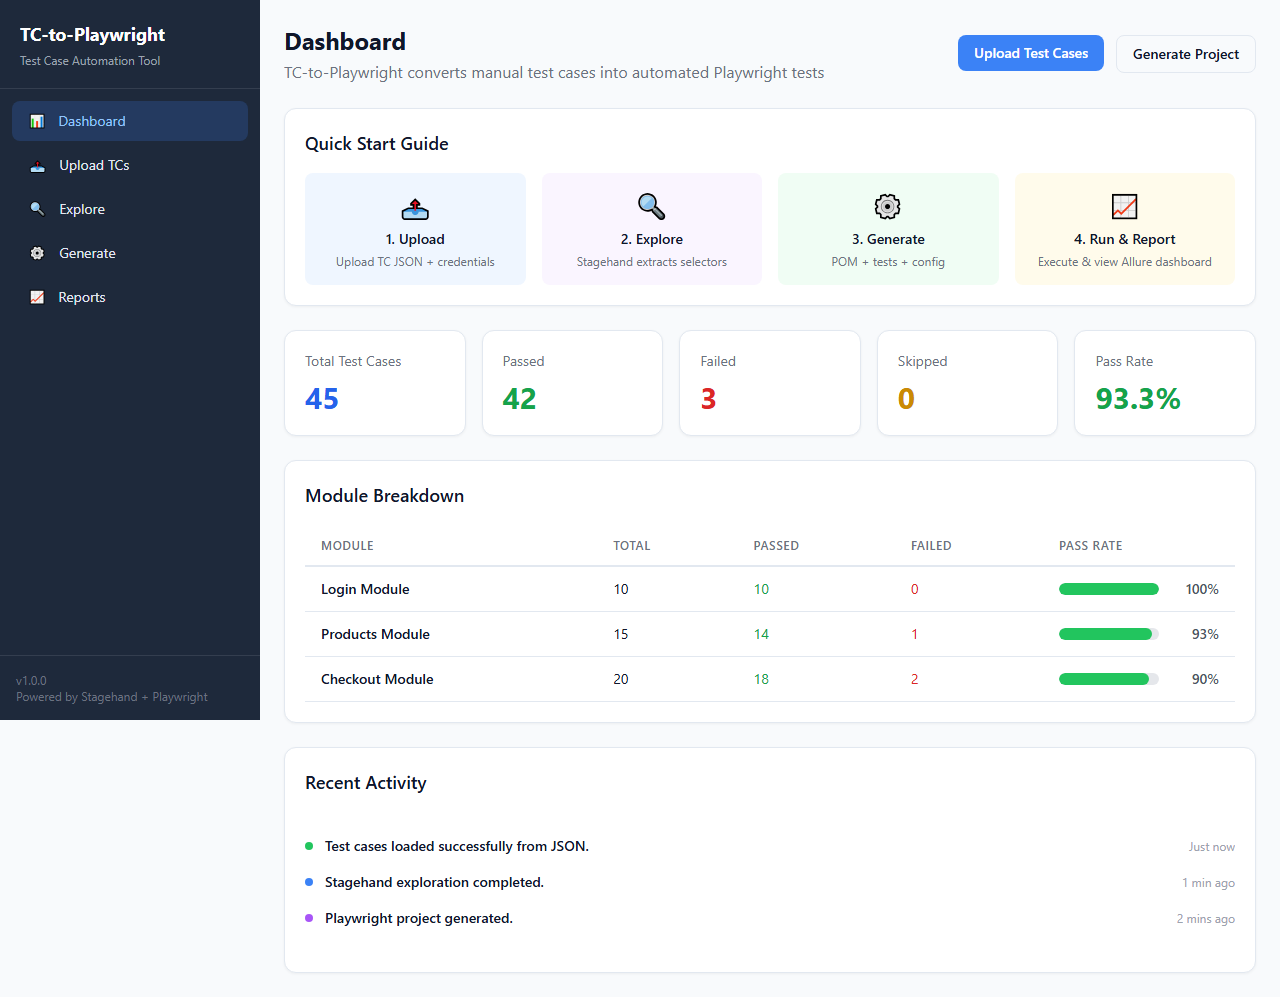
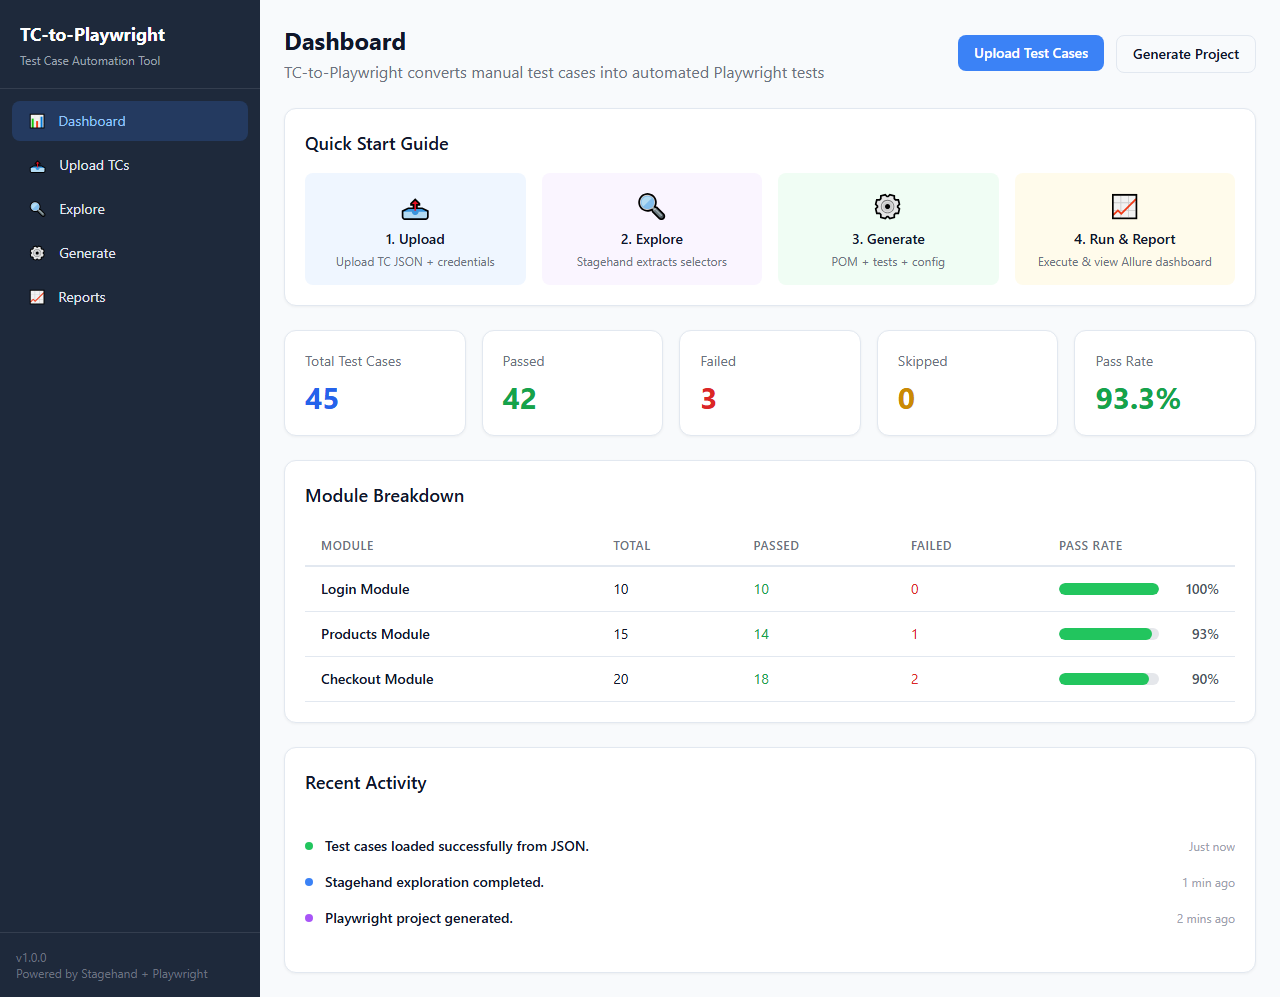
Fix sidebar height in full page screenshots

Changed region(s): [[0.0, 0.6841, 0.2188, 1.0]]

diff --git a/components/Layout.tsx b/components/Layout.tsx
@@ -16,8 +16,8 @@ export function Layout({ children }: { children: React.ReactNode }) {
   const pathname = usePathname();
 
   return (
-    <div>
-      <nav className="sidebar">
+    <div className="flex min-h-screen">
+      <nav className="sidebar flex flex-col relative">
         <div className="p-5 border-b border-white/10">
           <h1 className="text-lg font-bold text-white">TC-to-Playwright</h1>
           <p className="text-xs text-gray-400 mt-1">Test Case Automation Tool</p>
@@ -39,7 +39,7 @@ export function Layout({ children }: { children: React.ReactNode }) {
           })}
         </div>
 
-        <div className="absolute bottom-0 left-0 right-0 p-4 border-t border-white/10">
+        <div className="mt-auto p-4 border-t border-white/10">
           <div className="text-xs text-gray-500">
             <p>v1.0.0</p>
             <p>Powered by Stagehand + Playwright</p>

diff --git a/app/globals.css b/app/globals.css
@@ -29,17 +29,12 @@ body {
   background: var(--bg-sidebar);
   color: var(--text-sidebar);
   width: 260px;
-  position: fixed;
-  top: 0;
-  bottom: 0;
-  left: 0;
-  overflow-y: auto;
+  flex-shrink: 0;
 }
 
 .main-content {
-  margin-left: 260px;
   padding: 24px;
-  min-height: 100vh;
+  flex: 1;
 }
 
 .card {
